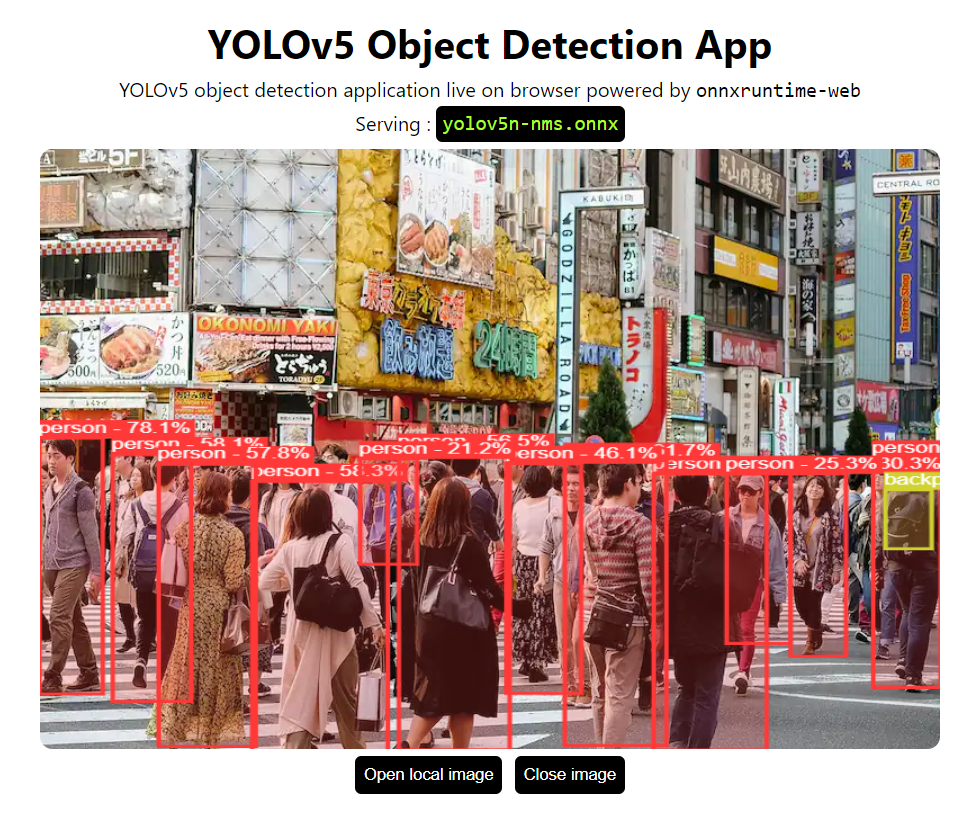
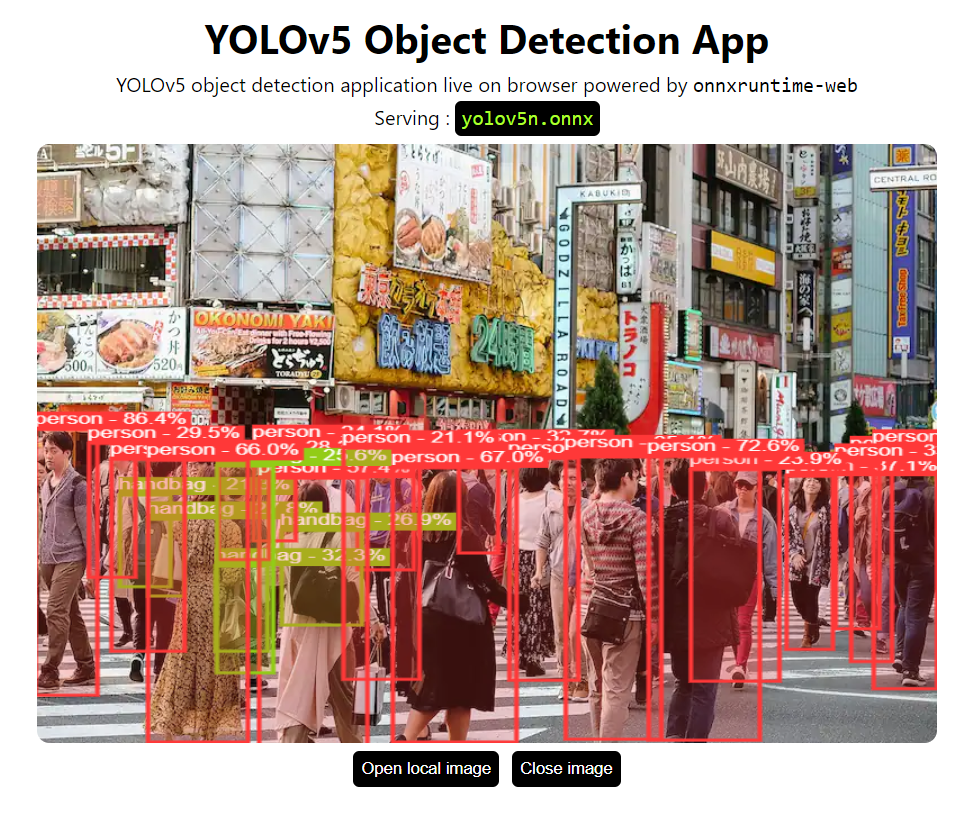
Update README

diff --git a/src/App.js b/src/App.js
@@ -34,7 +34,7 @@ const App = () => {
       new Float32Array(modelInputShape.reduce((a, b) => a * b)),
       modelInputShape
     );
-    const config = new Tensor("float32", new Float32Array([100, 0.45, 0.2]));
+    const config = new Tensor("float32", new Float32Array([topk, iouThreshold, confThreshold]));
     const { output0 } = await yolov5.run({ images: tensor });
     await nms.run({ detection: output0, config: config });
 

diff --git a/README.md b/README.md
@@ -31,11 +31,11 @@ yarn build # Build for productions
 
 ## Model
 
-YOLOv5n model converted to onnx model and adding `NonMaxSuppression` operator.
+YOLOv5n model converted to onnx model.
 
 ```
-used model : yolov5n-nms
-size       : 7.5 Mb
+used model : yolov5n
+size       : 7.6 Mb
 ```
 
 ## Use another model
